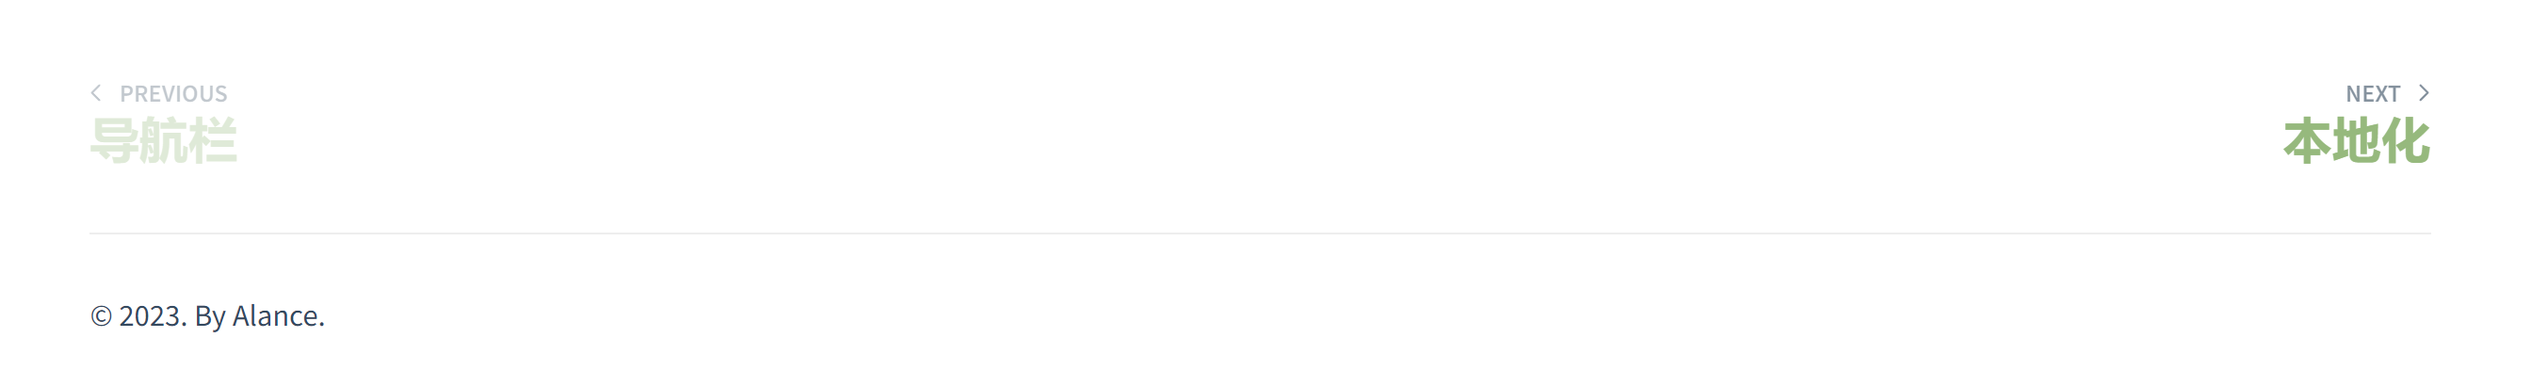
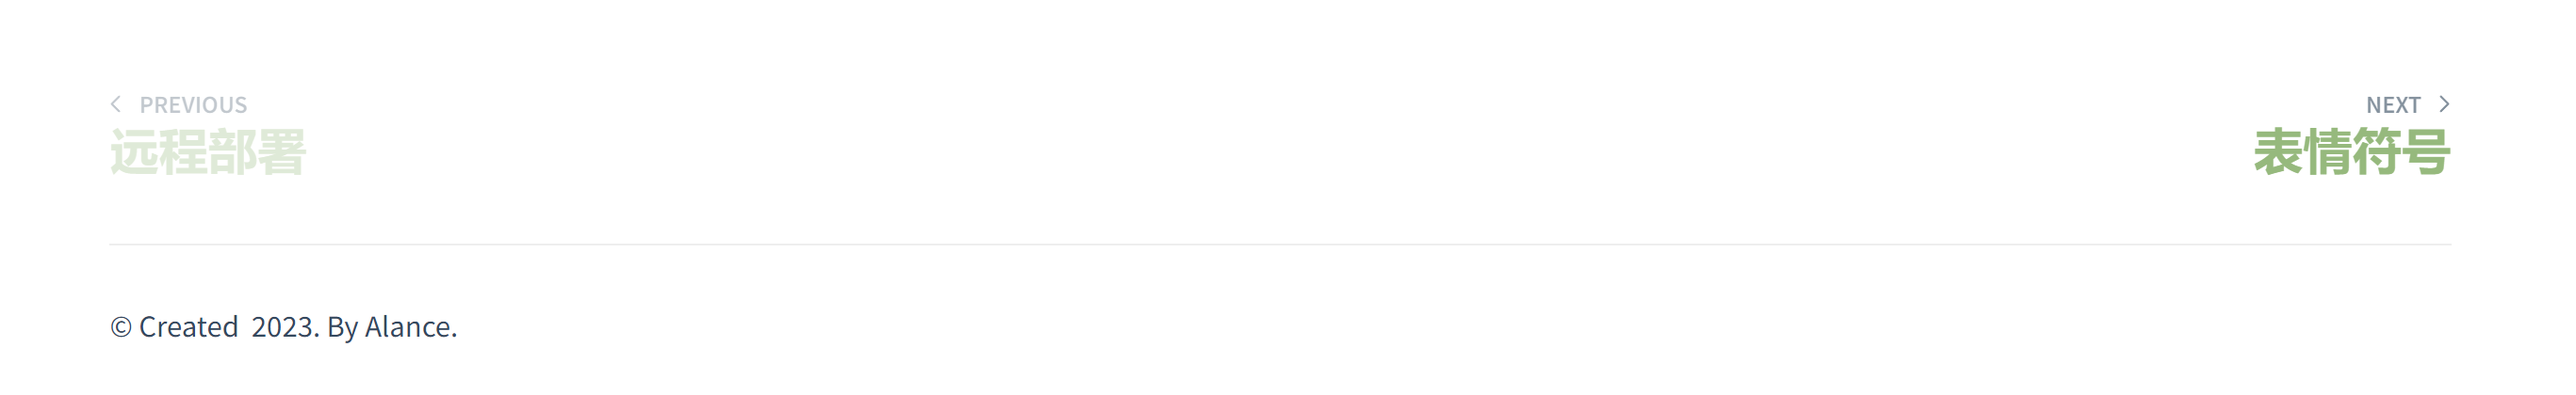
补充插件

Changed region(s): [[0.0311, 0.2137, 0.1242, 0.458], [0.8695, 0.2137, 0.9627, 0.458], [0.0311, 0.7939, 0.1863, 0.8855]]

diff --git a/docsify_en/plugins.md b/docsify_en/plugins.md
@@ -29,8 +29,7 @@ See specifically [Emojis](/docsify/emo.md)
 
 > ### 4. Paginated Navigation
 
-![分页脚注](../_media/_resources/分页脚注.png)
-
+![分页脚注](../_media/_resources/分页脚注1.png)
 
 ```index.html
 <script src="//cdn.jsdelivr.net/npm/docsify-pagination/dist/docsify-pagination.min.js"></script>
